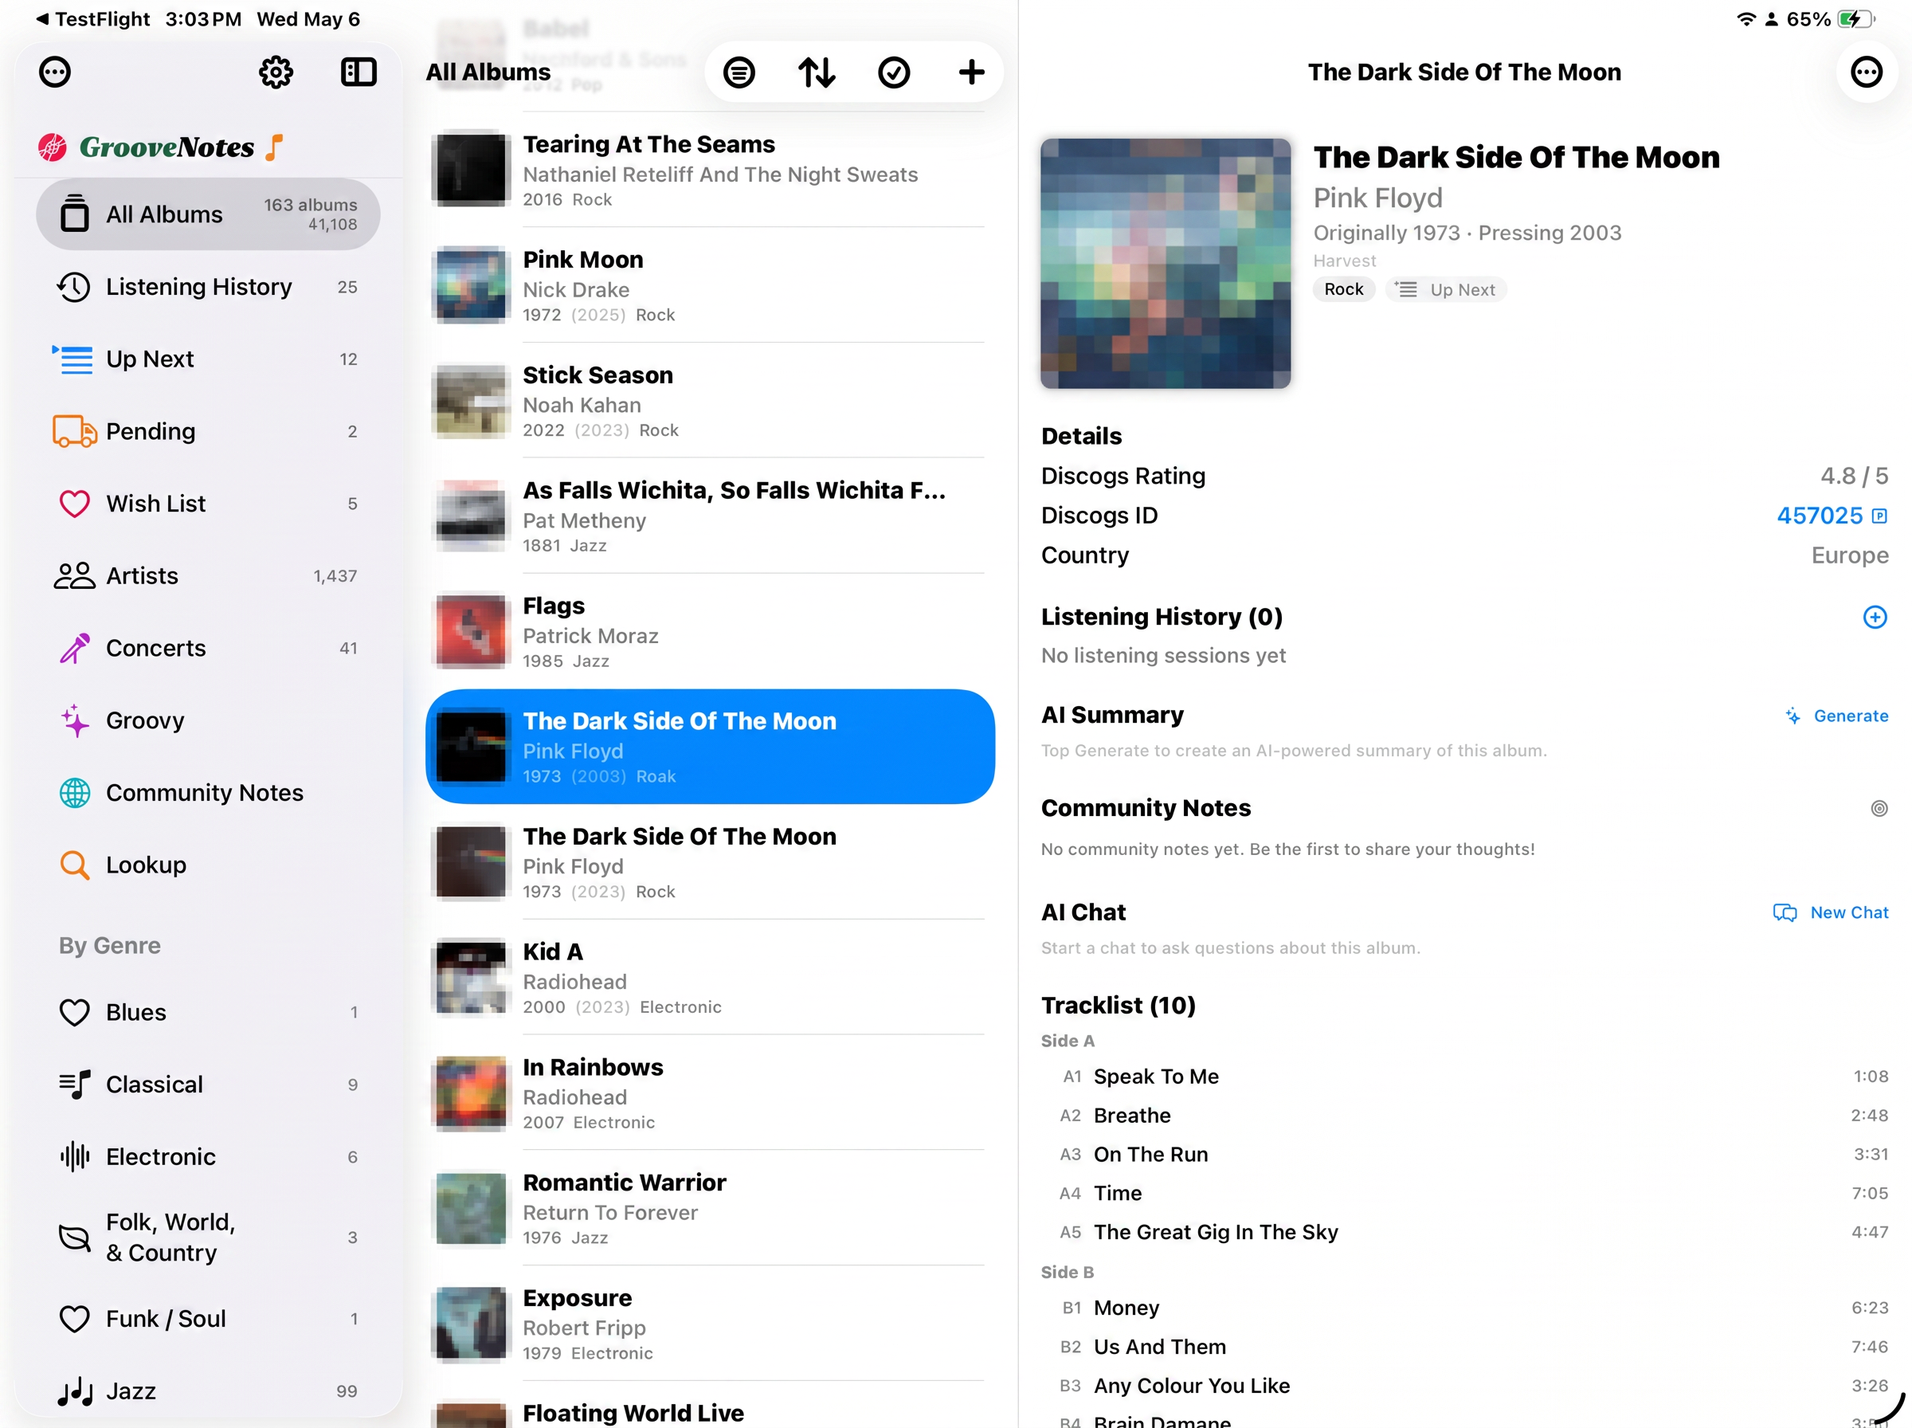
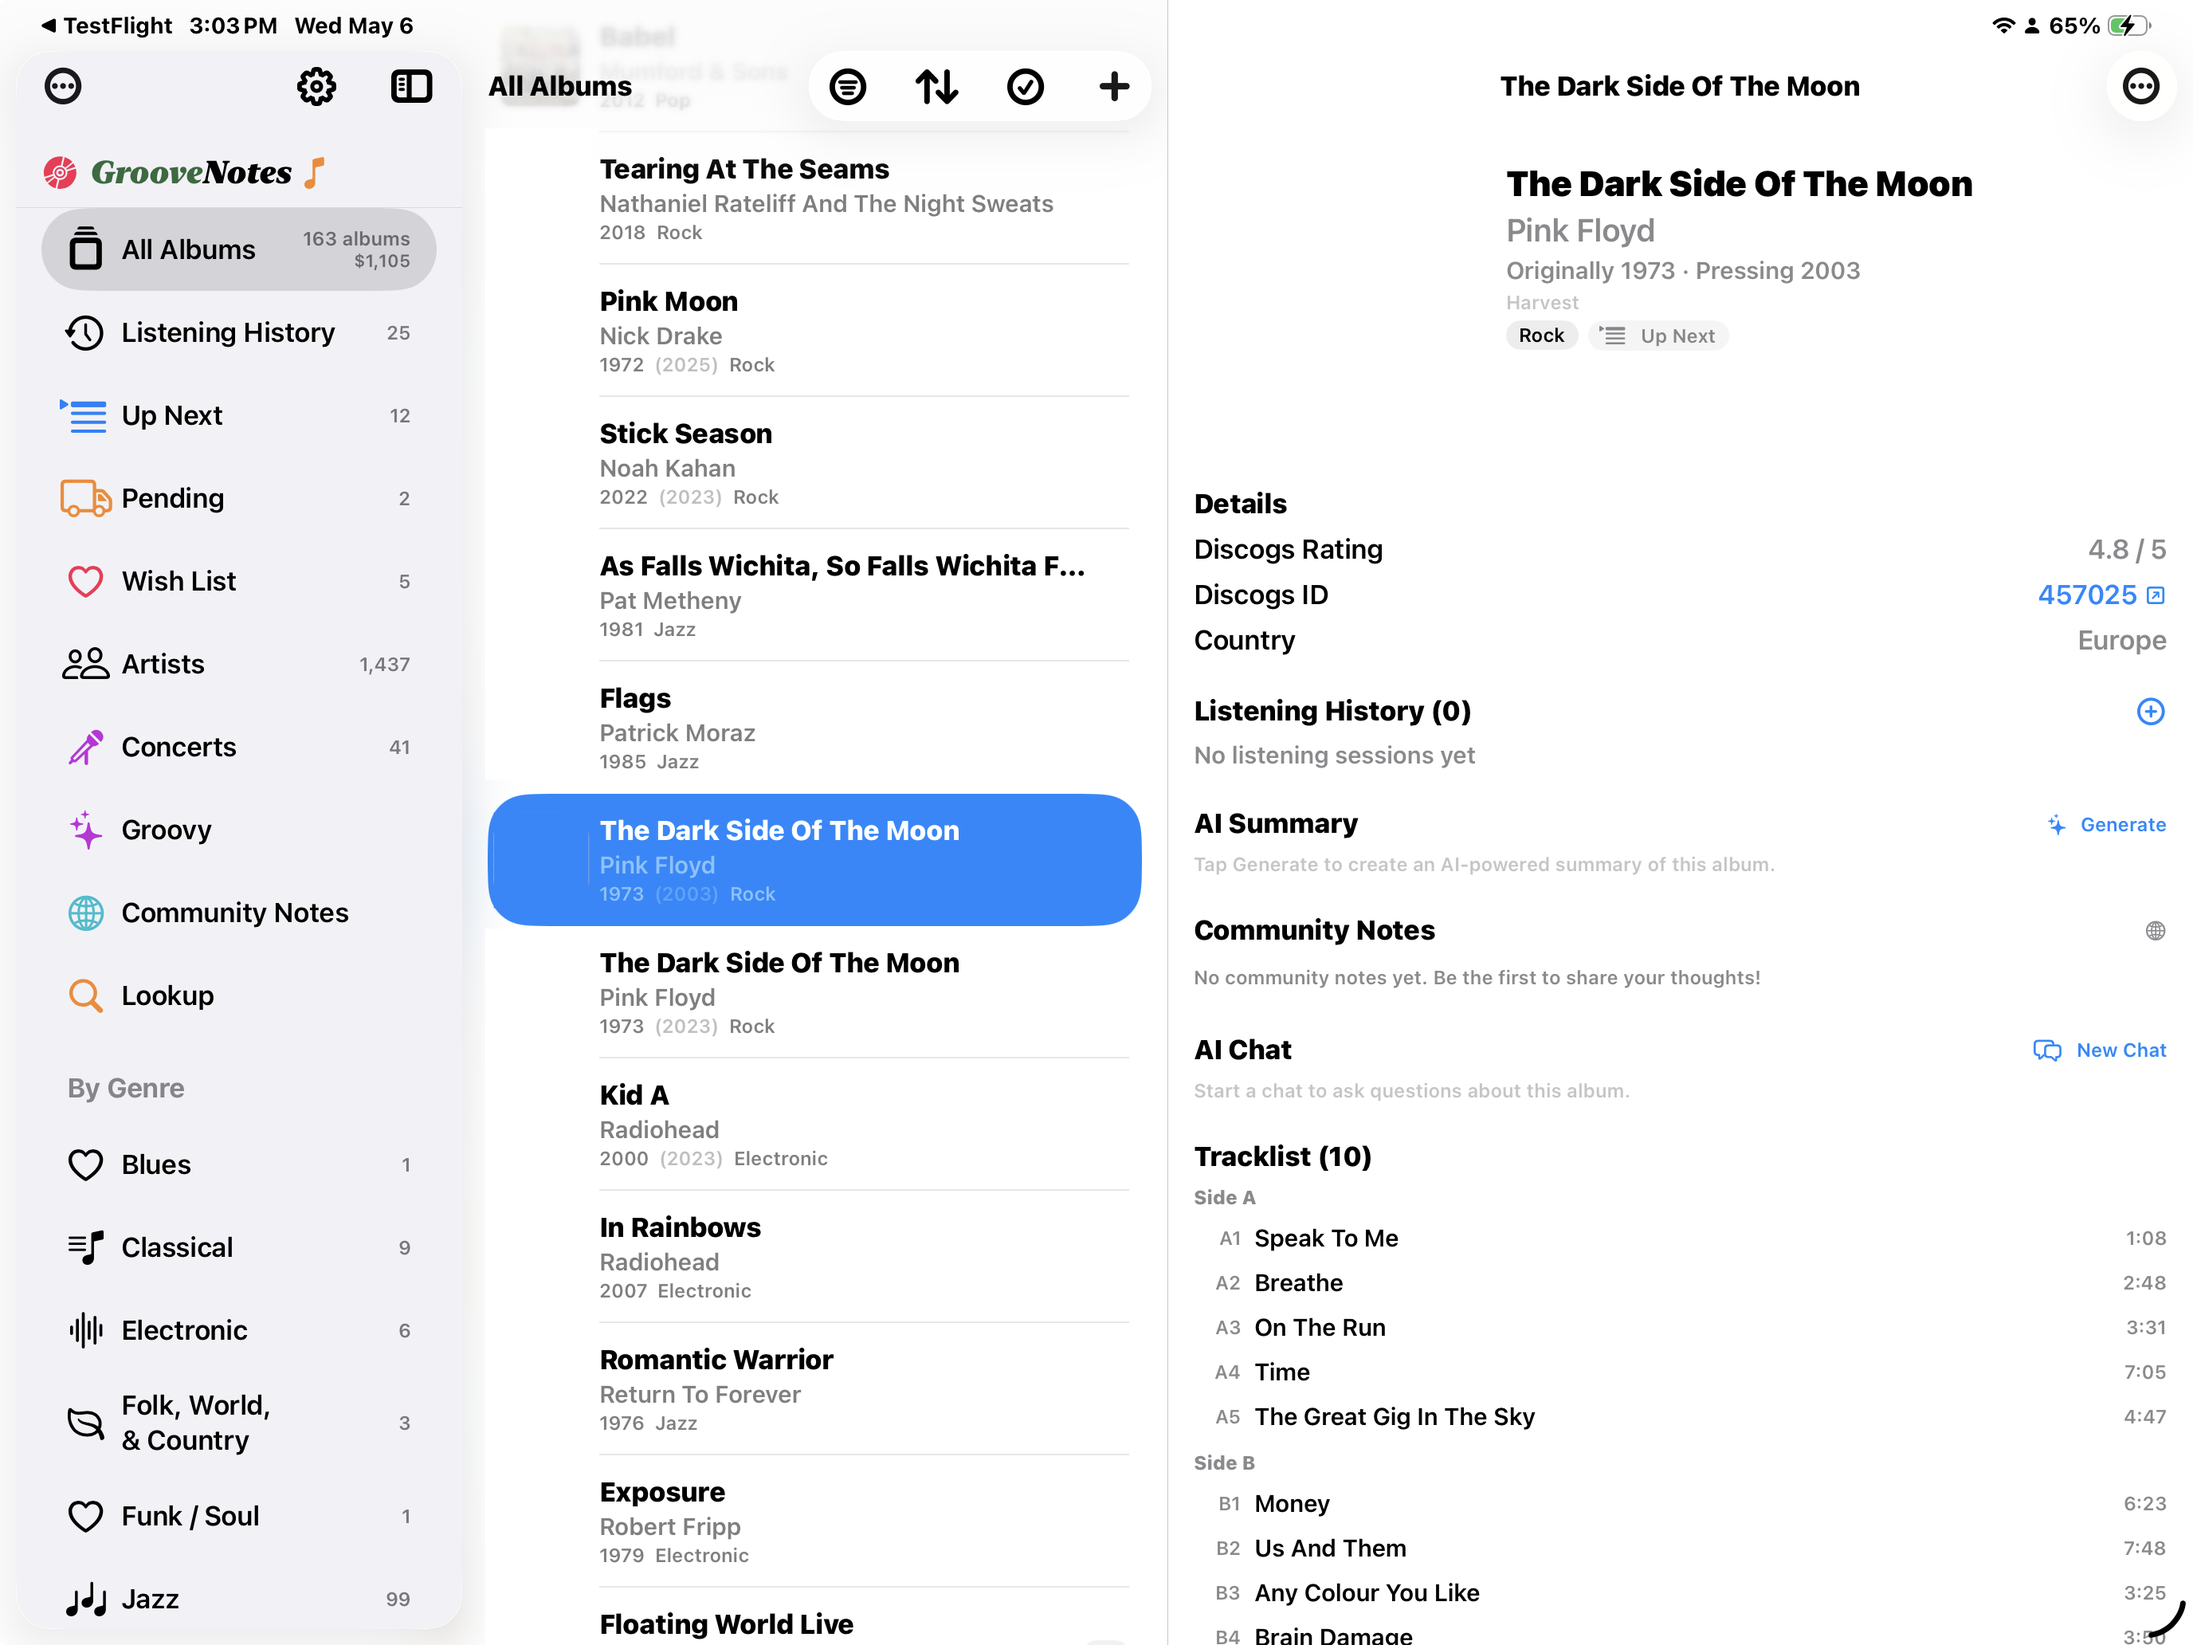
updates to address album art and google API terms of service

diff --git a/groove-notes/terms.html b/groove-notes/terms.html
@@ -25,7 +25,7 @@
 </head>
 <body>
     <h1>Terms of Service</h1>
-    <p class="updated">Last updated: April 30, 2026</p>
+    <p class="updated">Last updated: May 16, 2026</p>
 
     <p>These Terms of Service ("Terms") govern your use of the GrooveNotes application ("App") provided by Infiniti Engineering, Inc. ("we", "us", or "our"). By downloading, installing, or using the App you agree to these Terms.</p>
 
@@ -35,8 +35,12 @@
     <h2>2. Account and Data</h2>
     <p>The App stores your music collection data on your device and, if enabled, syncs it across your devices via Apple iCloud. You are responsible for maintaining the security of your Apple ID and devices. We do not have access to your iCloud data.</p>
 
-    <h2>3. AI Features</h2>
-    <p>The App includes AI-powered features (such as album lookups, concert lookups, album summaries, and music chat) that rely on third-party services. AI-generated content is provided for informational purposes only and may not always be accurate. We make no guarantees regarding the accuracy of AI outputs. Use of AI features requires you to provide your own API key.</p>
+    <h2 id="ai-terms">3. User-Provided AI API Keys and AI-Generated Content</h2>
+    <p><strong>A. Developer API Key Requirement:</strong> To access certain advanced data enrichment, categorization, and automation features within GrooveNotes, you may be required to provide your own API key for the Google Gemini API. By generating and entering an API key, you acknowledge and agree that you are acting as a solo developer, administrator, or power-user of your own Google Cloud / Google AI Studio project. You assume full responsibility for complying with the <a href="https://ai.google.dev/gemini-api/terms" target="_blank">Google AI Studio Terms of Service</a> and the Gemini API Additional Terms of Service.</p>
+    <p><strong>B. Data Privacy and Local Key Security:</strong> Your provided Gemini API key is stored locally on your device using secure storage protocols (Apple Keychain) and is never transmitted to or stored on servers owned or operated by GrooveNotes. The App acts purely as a local client proxy; all API calls to Google's generative models are made directly from your device to Google's API endpoints.</p>
+    <p><strong>C. Purpose and Scope of AI Features:</strong> AI features within the App are intended strictly for personal productivity, personal data management, workflow automation, and organizational metadata enrichment (such as generating descriptions, summaries, or sorting criteria for your personal music collection). You agree that you will not use these integrated features for any prohibited commercial exploitation or in violation of the Google Prohibited Use Policy.</p>
+    <p><strong>D. Disclaimer of AI-Generated Content:</strong> Any metadata, text, insights, or descriptions generated by the Gemini API within the App are the product of third-party artificial intelligence models. GrooveNotes makes no warranties or guarantees regarding the accuracy, completeness, reliability, or appropriateness of AI-generated output. You acknowledge that generative AI models are subject to errors, and you are responsible for reviewing and verifying any AI-generated content added to your personal collection.</p>
+    <p><strong>E. Cost, Quotas, and Service Availability:</strong> You are solely responsible for any data charges, rate limits, token usage, or potential billing associated with the API key you provide. GrooveNotes is not liable for service interruptions, changes to API pricing tiers, or the termination of your API key by Google.</p>
 
     <h2>4. Community Features</h2>
     <p>If you contribute listening notes, replies, or other content to community features, you grant us a non-exclusive, royalty-free license to display that content to other users of the App. You retain ownership of your content and may delete it at any time. You agree not to post content that is unlawful, abusive, or infringes on the rights of others.</p>
@@ -44,19 +48,25 @@
     <h2>5. Third-Party Services</h2>
     <p>The App integrates with third-party services including Discogs, Google Gemini, and Google Firebase. Your use of these services through the App is subject to their respective terms of service. We are not responsible for the availability, accuracy, or content provided by third-party services.</p>
 
-    <h2>6. Intellectual Property</h2>
+    <h2>6. Third-Party Content, Metadata, and Album Artwork</h2>
+    <p><strong>A. Data Source and Attribution:</strong> GrooveNotes utilizes the Discogs API to provide music cataloging, inventory management, and descriptive metadata services. All product names, logos, and artist data are trademarks of their respective holders. Use of them does not imply any affiliation with or endorsement by them.</p>
+    <p><strong>B. Intellectual Property &amp; Fair Use Policy:</strong> GrooveNotes does not own, store, or permanently host the album cover artwork displayed within the application interface. Album images are pulled dynamically via third-party APIs (including Discogs) and are displayed strictly for personal, non-commercial identification, informational indexing, and archival utility under the legal doctrine of Fair Use and the First Sale Doctrine.</p>
+    <p><strong>C. Display Limitation:</strong> Artwork thumbnails are presented in a low-resolution format intended solely to assist the user in visually verifying physical media variants in their personal collection. GrooveNotes does not provide access to digital music streams, downloads, or commercial duplication services.</p>
+    <p><strong>D. Takedown Policy (DMCA):</strong> If you are a copyright owner or an agent thereof and believe that any content or artwork delivered via our third-party integrations infringes upon your copyrights, please contact <a href="mailto:support@infiniti-engineering.com">support@infiniti-engineering.com</a> to request a local client-side filter. However, because images are hosted by Discogs, permanent removal requests must be directed to the data provider directly.</p>
+
+    <h2>7. Intellectual Property</h2>
     <p>All rights, title, and interest in the App (excluding your personal data) are owned by Infiniti Engineering, Inc. You may not copy, modify, distribute, or reverse-engineer any part of the App.</p>
 
-    <h2>7. Disclaimer of Warranties</h2>
+    <h2>8. Disclaimer of Warranties</h2>
     <p>The App is provided "as is" and "as available" without warranties of any kind, either express or implied. We do not warrant that the App will be uninterrupted, error-free, or free of harmful components.</p>
 
-    <h2>8. Limitation of Liability</h2>
+    <h2>9. Limitation of Liability</h2>
     <p>To the maximum extent permitted by law, we shall not be liable for any indirect, incidental, special, consequential, or punitive damages arising out of your use of or inability to use the App.</p>
 
-    <h2>9. Changes to These Terms</h2>
+    <h2>10. Changes to These Terms</h2>
     <p>We may update these Terms from time to time. We will notify you of material changes by posting the updated Terms within the App or on this page. Your continued use of the App after changes constitutes acceptance of the new Terms.</p>
 
-    <h2>10. Contact</h2>
+    <h2>11. Contact</h2>
     <p>If you have questions about these Terms, please contact us at <a href="mailto:support@infiniti-engineering.com">support@infiniti-engineering.com</a>.</p>
 </body>
 </html>
